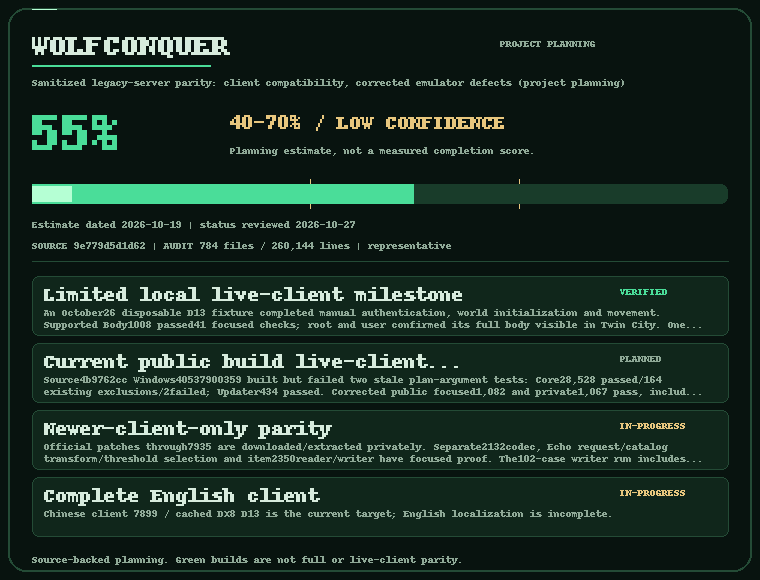
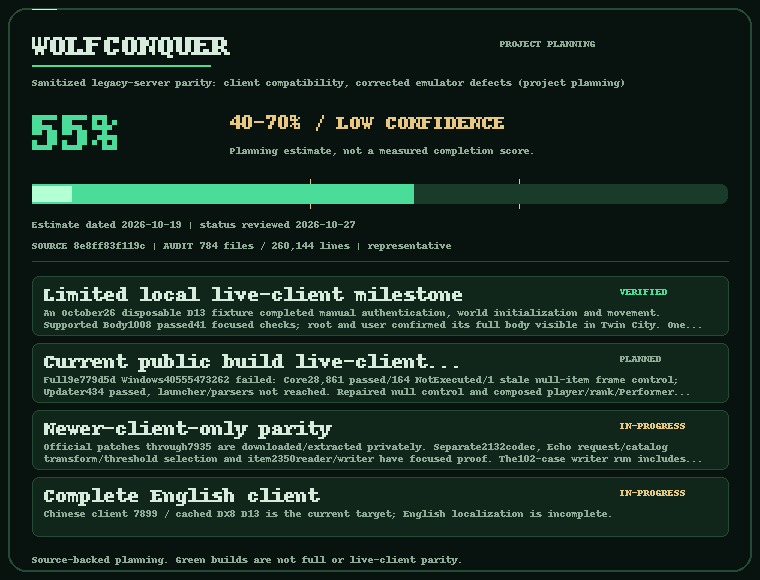
Refresh parity tracker [skip ci]

Changed region(s): [[0.0605, 0.6517, 0.9079, 0.6828], [0.1211, 0.4034, 0.1816, 0.4345]]

diff --git a/docs/parity/PROGRESS.md b/docs/parity/PROGRESS.md
@@ -8,7 +8,7 @@ Planning estimate: **55%**, range **40-70%**, **low confidence**. This is not a 
 
 Estimate date: **2026-10-19**. Status review date: **2026-10-27**. Reviewing the status does not refresh the estimate's age.
 
-Source commit: `9e779d5d1d6233aee934a5c98c7b4e5b3852bf78` (short: `9e779d5d1d62`).
+Source commit: `8e8ff83f119cc9c65c0753ba025a164f1a402aa7` (short: `8e8ff83f119c`).
 
 Source audit: 2026-10-19; 784 files; 260,144 lines; target comparison: **representative**. Inventory counts are not implementation proof.
 
@@ -19,7 +19,7 @@ A green test suite is not a live-client, complete-English, or full-parity certif
 | Milestone | Status | Detail |
 | --- | --- | --- |
 | Limited local live-client milestone | verified | An October26 disposable D13 fixture completed manual authentication, world initialization and movement. Supported Body1008 passed41 focused checks; root and user confirmed its full body visible in Twin City. One local trial does not prove restart reliability or the whole public build. Earlier drop/pickup/save proof applies to an older build. |
-| Current public build live-client acceptance | planned | Source4b9762cc Windows40537900359 built but failed two stale plan-argument tests: Core28,528 passed/164 existing exclusions/2failed; Updater434 passed. Corrected public focused1,082 and private1,067 pass, including all814 baseline names;15 tooling cases now pass. The new composed source needs its own full gate. Native owner/sender adoption, prestige activation, crash resolution, complete English, SQL and full-client distribution stay open. |
+| Current public build live-client acceptance | planned | Full9e779d5d Windows40555473262 failed: Core28,861 passed/164 NotExecuted/1 stale null-item frame control; Updater434 passed, launcher/parsers not reached. Repaired null control and composed player/rank/Performer batch pass524 focused cases in both public/private. New exact-source full gate and live acceptance remain pending. |
 | Complete English client | in-progress | Chinese client 7899 / cached DX8 D13 is the current target; English localization is incomplete. |
 | Newer-client-only parity | in-progress | Official patches through7935 are downloaded/extracted privately. Separate2132codec, Echo request/catalog transform/threshold selection and item2350reader/writer have focused proof. The102-case writer run includes37 existing-schema controls, not extra patch coverage. No default7935 activation, real state/cost/save join or actual7935 client acceptance. Not estimated. |
 | Public full-client download and updates | in-progress | Signed updater and original-art launcher tooling are published. No official full-client package/feed is published yet. |
@@ -28,11 +28,11 @@ A green test suite is not a live-client, complete-English, or full-parity certif
 
 | Domain | Status | Implemented evidence | Remaining work |
 | --- | --- | --- | --- |
-| Transport, authentication and startup | partial | Packet/cipher/startup paths validate physical envelopes. Explicit WorldServer startup opens only its configured existing UID domain. Owned API/raw/encrypted process/restart/lease/drain controls pass. A fresh local D13 fixture now completes manual account login, world entry and movement; secure native handoff remains unproved. | Prove the authenticated native account-to-world handoff and protected D13 login payload; complete ownership and loader joins, then verify the published build and staged endpoint migration with the actual client. |
-| Shared player, items and persistence | partial | Managed storage and mailbox transactions validate ownership, capacity and escrow before persisted success. Package prerequisites join UID history, recovery journals, PIN and delivery checks. Ordinary admission preserves complete saved progression without starter regrant. The offline creator makes only new synthetic domains with canonical collection defaults; full native/SQL ownership remains open. | Prove client warehouse cache/resynchronization behavior after committed-but-undelivered mutations. Finish one shared native player/item graph, login-loader, real login/save worker, production callers, legacy SQL/provider compatibility and restart recovery. |
+| Transport, authentication and startup | partial | Packet/cipher/startup paths validate envelopes and configured UID domains. Owned process/restart controls and one local D13 login/walk fixture have passed. Ordinary admission now loads saved physical class/level after durable commit. Native account-to-world handoff, complete ownership and current-public client acceptance remain open. | Prove the authenticated native account-to-world handoff and protected D13 login payload; complete ownership and loader joins, then verify the published build and staged endpoint migration with the actual client. |
+| Shared player, items and persistence | partial | Managed storage, mailbox and selected trade closures use validated journal participants. Ordinary login preserves saved progress and loads physical class/level after commit. Scoped Ninja rank-file persistence and Performer learning prepare complete state before publication, retaining opaque spell bytes. Native/session spell ownership, broader writers and real SQL remain open. | Prove client warehouse cache/resynchronization behavior after committed-but-undelivered mutations. Finish one shared native player/item graph, login-loader, real login/save worker, production callers, legacy SQL/provider compatibility and restart recovery. |
 | Combat, monsters and death | partial | Spell, damage, equipment, AI and death logic has focused proof. Required metadata and bounded XP precede local credit; physical/sigil admission checks real owners.1110/Action78 responses retain publication ownership. Scoped Ninja/rank/spell preparation passes1,067 common private/public cases. Native owner/sender adoption, full callers and multiplayer acceptance remain open. | Complete all callers, native arithmetic and shared RNG/order semantics, drops, lifetime ownership and multi-player/client scenarios. |
 | NPCs, shops, progression and housing | partial | Dispatch, shops, forging, skills, quest metadata and durable rewards exist. Managed VIP, promotion, donation-to-CP/bank and permanent Chi purchases validate/commit before publication. Housing parsing preserves coherent graphs; authenticated adoption, entry and furniture economy remain unfinished. | Close deferred mutations and exact economy/persistence ordering; complete housing, occupants and furniture lifecycle. |
-| Trade, social systems and events | partial | Managed Trade and player-booth exchanges use ordered pair commits and a shared journal. Tests cover complete closures, stale-file/escrow refusal, failure/retry, refunds/disconnect/restart and D13 Frame settlement. Warehouse composition preserves real 300-silver escrow: changed offered roots refund; unrelated withdrawals allow exchange. Guild/clan projections, selected actions, timers, score panels and some event state machines exist. | Complete native/social/event ownership and real-client multiplayer acceptance. Broader inventory/storage and booth raw-writer/delivery lifecycles, remaining guild/union actions, brackets, rewards, claims, reset, database parity and durable recovery remain open; scoped managed tests do not certify all transfers. |
+| Trade, social systems and events | partial | Managed Trade and booth exchanges use ordered participant commits and a shared journal. Owned tests cover selected failure/retry, refund, disconnect and recovery paths. Performer learning binds the current session and saved spell image before commitment. Guild/clan projections and selected event/timer flows exist; broader native/social ownership and multiplayer acceptance remain open. | Complete native/social/event ownership and real-client multiplayer acceptance. Broader inventory/storage and booth raw-writer/delivery lifecycles, remaining guild/union actions, brackets, rewards, claims, reset, database parity and durable recovery remain open; scoped managed tests do not certify all transfers. |
 | Cross-server and casino workflows | partial | Group/travel metadata, startup packets, poker data and visibility surfaces exist. | Complete genuine transfer/return/session/economy ownership and failure handling; verify table rounds, betting, pot and settlement. |
 
 The GIF animates decorative shine only; its estimate fill never grows between frames.
